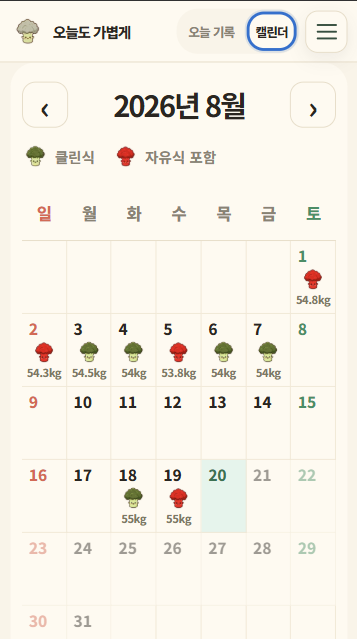
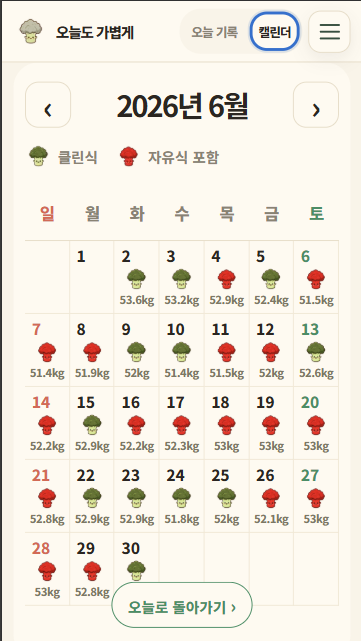
docs: unify the baseline captures on 2026-06-10
Replace the side menu and the two mobile screens with versions taken on
the same day the desktop shots use, and add the mobile detail modal so
the After pass can mirror every Before screen date for date.

diff --git a/portfolio.md b/portfolio.md
@@ -219,15 +219,16 @@ GET /api/calendar?year=&month=
 
 ### 문제 목록과 우선순위
 
-| #   | 문제                                                                                              | 근거                                                  | 우선순위 | 개선 대상 |
-| --- | ------------------------------------------------------------------------------------------------- | ----------------------------------------------------- | -------- | --------- |
-| 1   | 통계·차트·주간 요약이 없다. 패턴을 보려면 캘린더 색을 눈으로 세야 한다                            | `before-02-calendar.png` — 한 달이 빨강·초록으로 가득 | **HIGH** | ✅        |
-| 2   | 캘린더가 기록하지 않은 끼니를 판정에서 제외한다. 2끼만 기록한 날과 4끼 다 기록한 날이 똑같이 초록 | `before-08` + `before-03` (6/10은 점심·저녁만 기록)   | **HIGH** | ✅        |
-| 3   | 회원가입 제목이 `첫 회원 만들기`. 멀티 유저인데 1인 시절 문구가 남았다                            | `before-10-signup.png`, `AuthGate.tsx:194`            | **HIGH** | ✅        |
-| 4   | 조회 실패 안내가 캘린더 상세에만 있고 오늘 기록 화면에는 없다                                     | `page.tsx` 로드 실패 시 무음                          | MEDIUM   | 여력되면  |
-| 5   | 끼니별 삭제가 없다. 한 끼 실수에 하루 전체를 지워야 한다                                          | `식단 초기화`가 유일한 삭제 수단                      | MEDIUM   | ⬜        |
-| 6   | CSV 가져오기 화면이 파일 선택 전 대부분 빈 공간                                                   | `before-09-import.png`                                | LOW      | ⬜        |
-| 7   | CSV 가져오기가 특정 열 서식만 지원                                                                | `spreadsheetImport.ts` 헤더 검증                      | LOW      | ⬜        |
+| #                                      | 문제                                                                                              | 근거                                                  | 우선순위 | 개선 대상 |
+| -------------------------------------- | ------------------------------------------------------------------------------------------------- | ----------------------------------------------------- | -------- | --------- |
+| 1                                      | 통계·차트·주간 요약이 없다. 패턴을 보려면 캘린더 색을 눈으로 세야 한다                            | `before-02-calendar.png` — 한 달이 빨강·초록으로 가득 | **HIGH** | ✅        |
+| 2                                      | 캘린더가 기록하지 않은 끼니를 판정에서 제외한다. 2끼만 기록한 날과 4끼 다 기록한 날이 똑같이 초록 | `before-08` + `before-03` (6/10은 점심·저녁만 기록)   | **HIGH** | ✅        |
+| 3                                      | 회원가입 제목이 `첫 회원 만들기`. 멀티 유저인데 1인 시절 문구가 남았다                            | `before-10-signup.png`, `AuthGate.tsx:194`            | **HIGH** | ✅        |
+| `before-11-mobile-calendar-detail.png` | 모바일 날짜 상세 모달 (6/10)                                                                      | 모바일 반응형 증빙                                    |
+| 4                                      | 조회 실패 안내가 캘린더 상세에만 있고 오늘 기록 화면에는 없다                                     | `page.tsx` 로드 실패 시 무음                          | MEDIUM   | 여력되면  |
+| 5                                      | 끼니별 삭제가 없다. 한 끼 실수에 하루 전체를 지워야 한다                                          | `식단 초기화`가 유일한 삭제 수단                      | MEDIUM   | ⬜        |
+| 6                                      | CSV 가져오기 화면이 파일 선택 전 대부분 빈 공간                                                   | `before-09-import.png`                                | LOW      | ⬜        |
+| 7                                      | CSV 가져오기가 특정 열 서식만 지원                                                                | `spreadsheetImport.ts` 헤더 검증                      | LOW      | ⬜        |
 
 ### 우선순위를 그렇게 매긴 이유
 
@@ -334,6 +335,10 @@ GET /api/calendar?year=&month=
 | `before-08-today-filled.png`    | 오늘 기록 (6월 10일)      | 2번 주요 기능 ⭐          |
 | `before-09-import.png`          | CSV 가져오기              | 2번 주요 기능             |
 | `before-10-signup.png`          | 회원가입 "첫 회원 만들기" | **7·8번 UX 문제 증거** 🔴 |
+
+> **날짜 기준**: 기록이 있는 화면은 전부 **2026-06-10**으로 통일했다. 같은 날을 데스크톱·모바일·상세 모달로
+> 보여주므로 After 캡쳐도 같은 날짜로 찍으면 그대로 비교된다.
+> `before-01-today-empty.png`만 기록이 없는 날(8/20)인데, "입력 전" 상태를 보여주는 별개 용도라 그대로 둔다.
 
 **가장 값이 큰 3장**
 
